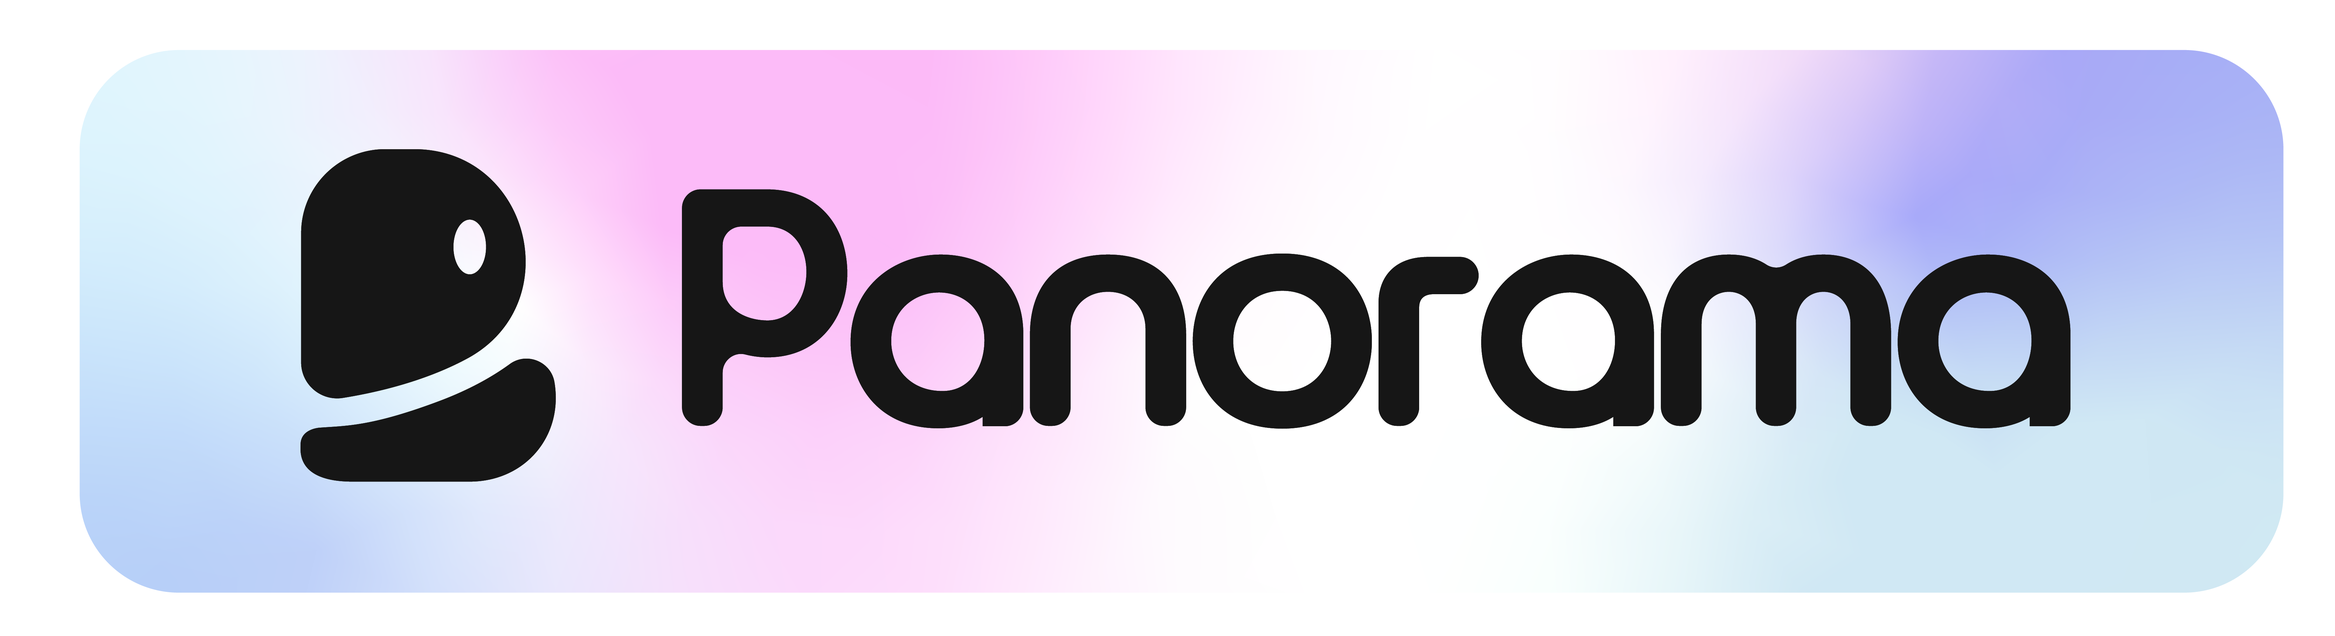
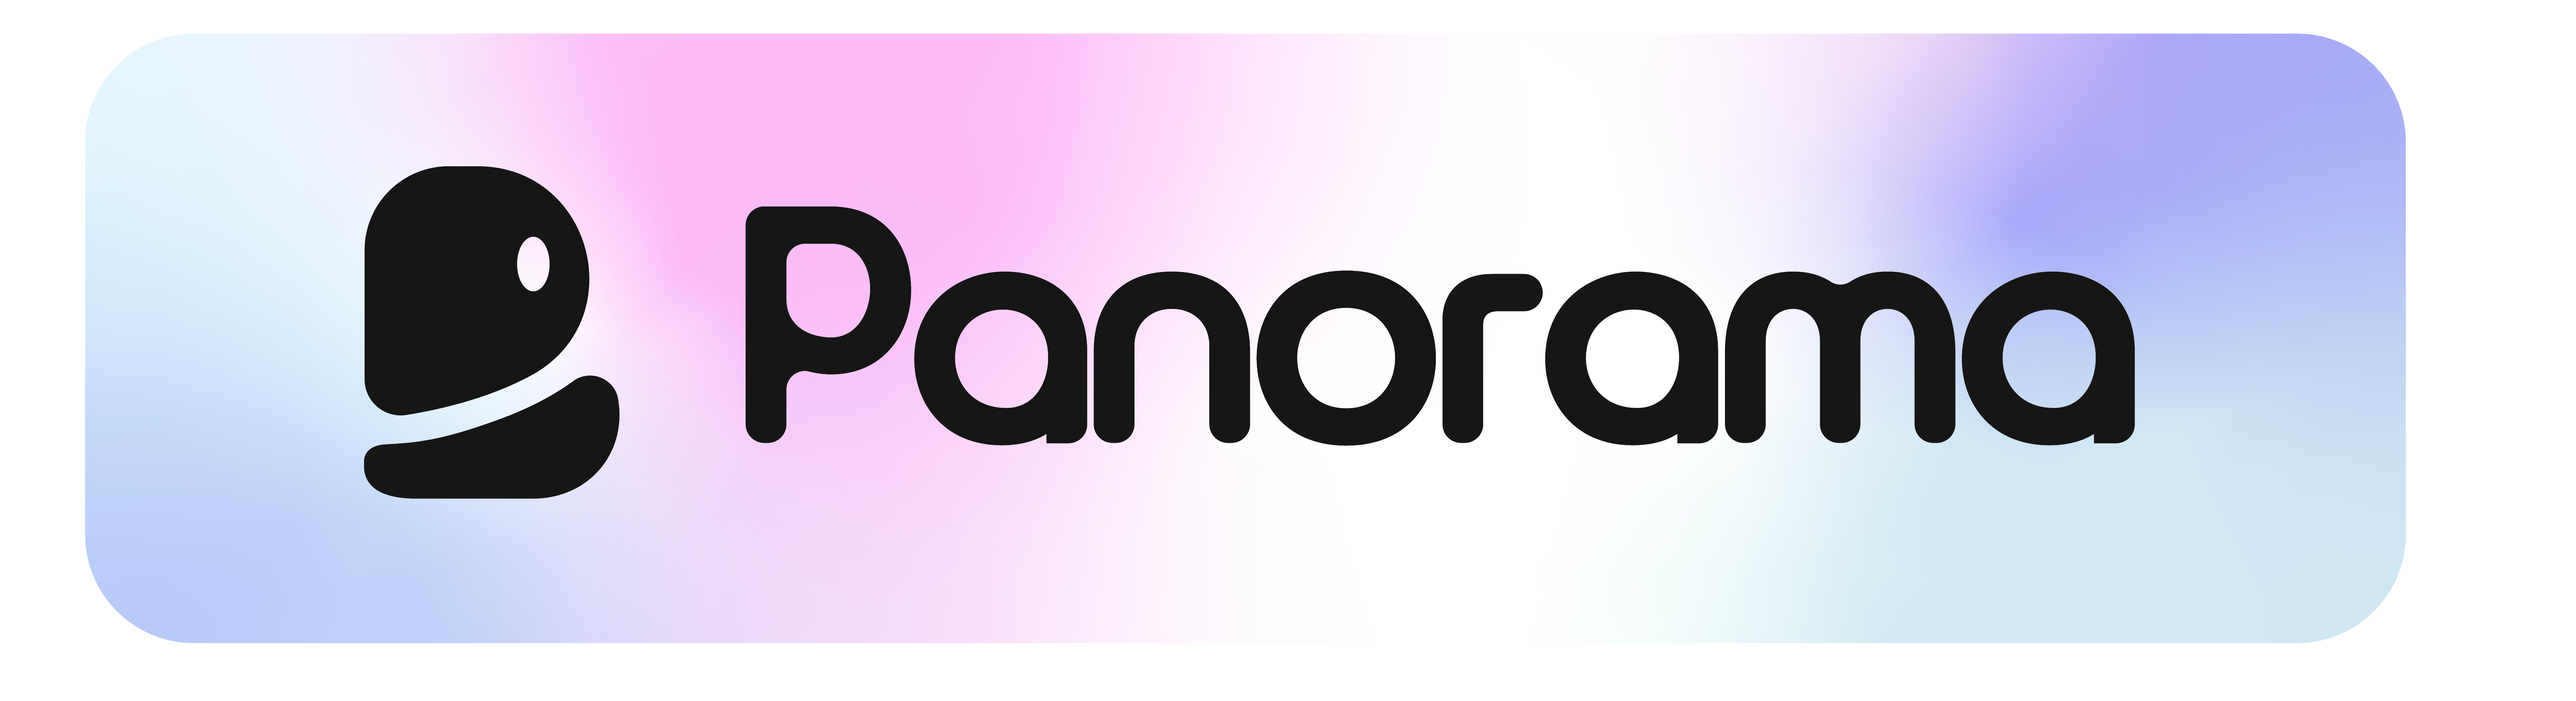
Home: marchio Panorama aggiornato
Claude-Session: https://claude.ai/code/session_018GhKR1K6T3oKWbCrCjQh52

diff --git a/index.html b/index.html
@@ -148,7 +148,7 @@ const ricorda = (k, v) => { try { if (v === undefined) return localStorage.getIt
 const grid = document.getElementById('grid');
 grid.innerHTML = PRODOTTI.map(p => `
   <article class="tile ${p.big ? 'big' : ''} ${p.last ? 'last' : ''}" data-id="${p.id}" style="--c:${p.c};--g:${p.g};${p.ct ? '--ct:' + p.ct + ';' : ''}--lw:${p.lw}">
-    <div class="stage"><span class="aud ${p.soon ? 'soon' : ''}">${p.aud}</span><img src="assets/marchi/${p.logo}.png?v=3" alt="${p.id}" onload="this.style.setProperty('--r', this.naturalWidth / this.naturalHeight)"/></div>
+    <div class="stage"><span class="aud ${p.soon ? 'soon' : ''}">${p.aud}</span><img src="assets/marchi/${p.logo}.png?v=4" alt="${p.id}" onload="this.style.setProperty('--r', this.naturalWidth / this.naturalHeight)"/></div>
     <div class="body">
       <p class="desc"></p>
       <div class="foot">${p.modi.length > 1 ? `<div class="seg" role="tablist" aria-label="Versione">${p.modi.map((m, i) => `<button role="tab" data-i="${i}" aria-selected="false">${m.k}</button>`).join('')}<span class="pill"></span></div>` : ''}<a class="go"></a></div>
